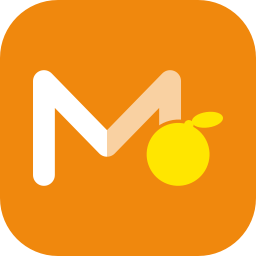
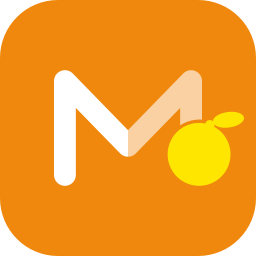
アプリアイコンの M をタイルの中央に戻す
M とみかんをまとめて中央に置いていたため M が左に寄っていた。M をタイルの中央に置き、
みかんは右へはみ出す形にする（タイルの端には届かない）。

Changed region(s): [[0.125, 0.25, 0.9688, 0.75]]

diff --git a/src/local_media_viewer/appicon.py b/src/local_media_viewer/appicon.py
@@ -12,35 +12,35 @@ from PySide6.QtSvg import QSvgRenderer
 # temporary directory and carries no assets folder.
 ICON_SVG = """\
 <svg xmlns="http://www.w3.org/2000/svg" viewBox="0 0 256 256" width="256" height="256"><\
-rect width="256" height="256" rx="58" fill="#F0880D"/><g transform="translate(-20.99 0)"\
-><g transform="translate(128 128) rotate(0) scale(0.80874) translate(-78.000 -58.000)"><\
-path d="M-13.50 116.00 L-13.50 0.00 L-13.39 -1.69 L-13.09 -3.32 L-12.59 -4.88 L-11.92 -6\
-.35 L-11.08 -7.71 L-10.09 -8.97 L-8.97 -10.09 L-7.71 -11.08 L-6.35 -11.92 L-4.88 -12.59 \
-L-3.32 -13.09 L-1.69 -13.39 L0.00 -13.50 L1.69 -13.39 L3.32 -13.09 L4.88 -12.59 L6.35 -1\
-1.92 L7.71 -11.08 L8.97 -10.09 L9.67 -9.39 L9.67 -9.42 L78.00 60.66 L78.00 93.50 L76.75 \
-93.44 L75.53 93.28 L74.35 93.00 L73.22 92.63 L72.13 92.16 L71.09 91.60 L70.11 90.95 L69.\
-19 90.23 L68.33 89.42 L68.33 89.42 L13.50 33.18 L13.50 116.00 L13.39 117.69 L13.09 119.3\
-2 L12.59 120.88 L11.92 122.35 L11.08 123.71 L10.09 124.97 L8.97 126.09 L7.71 127.08 L6.3\
-5 127.92 L4.88 128.59 L3.32 129.09 L1.69 129.39 L0.00 129.50 L-1.69 129.39 L-3.32 129.09\
- L-4.88 128.59 L-6.35 127.92 L-7.71 127.08 L-8.97 126.09 L-10.09 124.97 L-11.08 123.71 L\
--11.92 122.35 L-12.59 120.88 L-13.09 119.32 L-13.39 117.69 L-13.50 116.00 Z" fill="#FFFF\
-FF"/><path d="M78.00 60.66 L146.33 -9.42 L147.19 -10.23 L148.11 -10.95 L149.09 -11.60 L1\
-50.13 -12.16 L151.22 -12.63 L152.35 -13.00 L153.53 -13.28 L154.75 -13.44 L156.00 -13.50 \
-L157.69 -13.39 L159.32 -13.09 L160.88 -12.59 L162.35 -11.92 L163.71 -11.08 L164.97 -10.0\
-9 L166.09 -8.97 L167.08 -7.71 L167.92 -6.35 L168.59 -4.88 L169.09 -3.32 L169.39 -1.69 L1\
-69.50 0.00 L169.50 116.00 L169.39 117.69 L169.09 119.32 L168.59 120.88 L167.92 122.35 L1\
-67.08 123.71 L166.09 124.97 L164.97 126.09 L163.71 127.08 L162.35 127.92 L160.88 128.59 \
-L159.32 129.09 L157.69 129.39 L156.00 129.50 L154.31 129.39 L152.68 129.09 L151.12 128.5\
-9 L149.65 127.92 L148.29 127.08 L147.03 126.09 L145.91 124.97 L144.92 123.71 L144.08 122\
-.35 L143.41 120.88 L142.91 119.32 L142.61 117.69 L142.50 116.00 L142.50 33.18 L87.67 89.\
-42 L86.81 90.23 L85.89 90.95 L84.91 91.60 L83.87 92.16 L82.78 92.63 L81.65 93.00 L80.47 \
-93.28 L79.25 93.44 L78.00 93.50 Z" fill="#FFFFFF" fill-opacity="0.62"/></g><g transform=\
-"translate(199.08 146.97) scale(1.85) rotate(20 0 4)" fill="#F0880D" stroke="#F0880D" st\
-roke-width="3.78" stroke-linejoin="round"><circle cx="0" cy="4" r="17"/><circle cx="0" c\
-y="-13" r="2.6"/><ellipse cx="8.5" cy="-19" rx="8.5" ry="4.2" transform="rotate(-28 8.5 \
--19)"/></g><g transform="translate(199.08 146.97) scale(1.85) rotate(20 0 4)" fill="#FFE\
-600"><circle cx="0" cy="4" r="17"/><circle cx="0" cy="-13" r="2.6"/><ellipse cx="8.5" cy\
-="-19" rx="8.5" ry="4.2" transform="rotate(-28 8.5 -19)"/></g></g></svg>"""
+rect width="256" height="256" rx="58" fill="#F0880D"/><g transform="translate(0.00 0)"><\
+g transform="translate(128 128) rotate(0) scale(0.80874) translate(-78.000 -58.000)"><pa\
+th d="M-13.50 116.00 L-13.50 0.00 L-13.39 -1.69 L-13.09 -3.32 L-12.59 -4.88 L-11.92 -6.3\
+5 L-11.08 -7.71 L-10.09 -8.97 L-8.97 -10.09 L-7.71 -11.08 L-6.35 -11.92 L-4.88 -12.59 L-\
+3.32 -13.09 L-1.69 -13.39 L0.00 -13.50 L1.69 -13.39 L3.32 -13.09 L4.88 -12.59 L6.35 -11.\
+92 L7.71 -11.08 L8.97 -10.09 L9.67 -9.39 L9.67 -9.42 L78.00 60.66 L78.00 93.50 L76.75 93\
+.44 L75.53 93.28 L74.35 93.00 L73.22 92.63 L72.13 92.16 L71.09 91.60 L70.11 90.95 L69.19\
+ 90.23 L68.33 89.42 L68.33 89.42 L13.50 33.18 L13.50 116.00 L13.39 117.69 L13.09 119.32 \
+L12.59 120.88 L11.92 122.35 L11.08 123.71 L10.09 124.97 L8.97 126.09 L7.71 127.08 L6.35 \
+127.92 L4.88 128.59 L3.32 129.09 L1.69 129.39 L0.00 129.50 L-1.69 129.39 L-3.32 129.09 L\
+-4.88 128.59 L-6.35 127.92 L-7.71 127.08 L-8.97 126.09 L-10.09 124.97 L-11.08 123.71 L-1\
+1.92 122.35 L-12.59 120.88 L-13.09 119.32 L-13.39 117.69 L-13.50 116.00 Z" fill="#FFFFFF\
+"/><path d="M78.00 60.66 L146.33 -9.42 L147.19 -10.23 L148.11 -10.95 L149.09 -11.60 L150\
+.13 -12.16 L151.22 -12.63 L152.35 -13.00 L153.53 -13.28 L154.75 -13.44 L156.00 -13.50 L1\
+57.69 -13.39 L159.32 -13.09 L160.88 -12.59 L162.35 -11.92 L163.71 -11.08 L164.97 -10.09 \
+L166.09 -8.97 L167.08 -7.71 L167.92 -6.35 L168.59 -4.88 L169.09 -3.32 L169.39 -1.69 L169\
+.50 0.00 L169.50 116.00 L169.39 117.69 L169.09 119.32 L168.59 120.88 L167.92 122.35 L167\
+.08 123.71 L166.09 124.97 L164.97 126.09 L163.71 127.08 L162.35 127.92 L160.88 128.59 L1\
+59.32 129.09 L157.69 129.39 L156.00 129.50 L154.31 129.39 L152.68 129.09 L151.12 128.59 \
+L149.65 127.92 L148.29 127.08 L147.03 126.09 L145.91 124.97 L144.92 123.71 L144.08 122.3\
+5 L143.41 120.88 L142.91 119.32 L142.61 117.69 L142.50 116.00 L142.50 33.18 L87.67 89.42\
+ L86.81 90.23 L85.89 90.95 L84.91 91.60 L83.87 92.16 L82.78 92.63 L81.65 93.00 L80.47 93\
+.28 L79.25 93.44 L78.00 93.50 Z" fill="#FFFFFF" fill-opacity="0.62"/></g><g transform="t\
+ranslate(199.08 146.97) scale(1.85) rotate(20 0 4)" fill="#F0880D" stroke="#F0880D" stro\
+ke-width="3.78" stroke-linejoin="round"><circle cx="0" cy="4" r="17"/><circle cx="0" cy=\
+"-13" r="2.6"/><ellipse cx="8.5" cy="-19" rx="8.5" ry="4.2" transform="rotate(-28 8.5 -1\
+9)"/></g><g transform="translate(199.08 146.97) scale(1.85) rotate(20 0 4)" fill="#FFE60\
+0"><circle cx="0" cy="4" r="17"/><circle cx="0" cy="-13" r="2.6"/><ellipse cx="8.5" cy="\
+-19" rx="8.5" ry="4.2" transform="rotate(-28 8.5 -19)"/></g></g></svg>"""
 
 ICON_SIZES = (16, 24, 32, 48, 64, 128, 256)
 APP_MODEL_ID = "LocalMediaViewer.Viewer"

diff --git a/tests/test_appicon.py b/tests/test_appicon.py
@@ -90,7 +90,7 @@ def test_the_arms_of_the_m_meet_in_one_solid_joint() -> None:
     assert image.pixelColor(centre + 6, 140).name() != "#ffffff"
 
 
-def test_the_mikan_stands_on_the_m_and_the_pair_is_centred() -> None:
+def test_the_mikan_stands_on_the_m_and_the_m_is_centred() -> None:
     layout = icon_layout()
     size = 512
     image = rendered_icon(size)
@@ -113,13 +113,22 @@ def test_the_mikan_stands_on_the_m_and_the_pair_is_centred() -> None:
     # The fruit's bottom sits on the M's baseline, as the user asked.
     assert abs(lowest(mikan, yellow) - lowest(left_leg, white)) <= 1
 
-    # The M and the fruit together sit in the middle of the tile. Only fully
-    # opaque pixels count: the tile's softened corners are not part of it.
-    def mark(x: int, y: int) -> bool:
-        return image.pixelColor(x, y).alpha() == 255 and (white(x, y) or yellow(x, y))
+    # The M itself sits in the middle of the tile, the fruit sticking out to
+    # its right (the user asked for the M back in the centre).
+    assert abs((layout.M_LEFT + layout.M_BOX.right()) / 2 + layout.SHIFT_X - 128) < 0.5
+    columns = [x for x in range(size) if any(white(x, y) for y in range(0, size, 2))]
+    assert abs(columns[0] - layout.M_LEFT * scale) <= 2
 
-    columns = [x for x in range(size) if any(mark(x, y) for y in range(0, size, 2))]
-    assert abs(columns[0] - (size - 1 - columns[-1])) <= 2
+    # The fruit stays clear of the tile's edge (4 px here, 2 in the 256 tile).
+    # Only opaque pixels count: the tile's softened rim is nearly transparent
+    # and its colour values there mean nothing.
+    def solid_yellow(x: int, y: int) -> bool:
+        return image.pixelColor(x, y).alpha() == 255 and yellow(x, y)
+
+    margin = 4
+    for x in range(size):
+        for y in list(range(margin)) + list(range(size - margin, size)):
+            assert not solid_yellow(x, y) and not solid_yellow(y, x)
 
 
 def test_the_right_foot_of_the_m_stays_hidden_behind_the_mikan() -> None:

diff --git a/scripts/make_icon.py b/scripts/make_icon.py
@@ -89,10 +89,11 @@ M_RIGHT_FOOT = m_transform().map(QPointF(*CENTRE_LINE[-1]))
 # keeps them on one line.
 MIKAN_X = M_RIGHT_FOOT.x() + MIKAN_OFFSET
 MIKAN_Y = M_BOTTOM - mikan.body_bottom(MIKAN_ROTATION) * MIKAN_SCALE
-# The fruit sticks out to the right of the M, so the pair is shifted left to
-# sit centred in the tile as one mark.
+# The M stays in the middle of the tile and the fruit sticks out to its right.
+# Centring the M and the fruit together as one mark was tried: it pushed the M
+# off centre, and the user wanted the M back in the middle.
 MARK_RIGHT = MIKAN_X + mikan.outline(MIKAN_ROTATION).boundingRect().right() * MIKAN_SCALE
-SHIFT_X = 128 - (M_LEFT + MARK_RIGHT) / 2
+SHIFT_X = 0.0
 
 
 def svg_path(path: QPainterPath) -> str:
